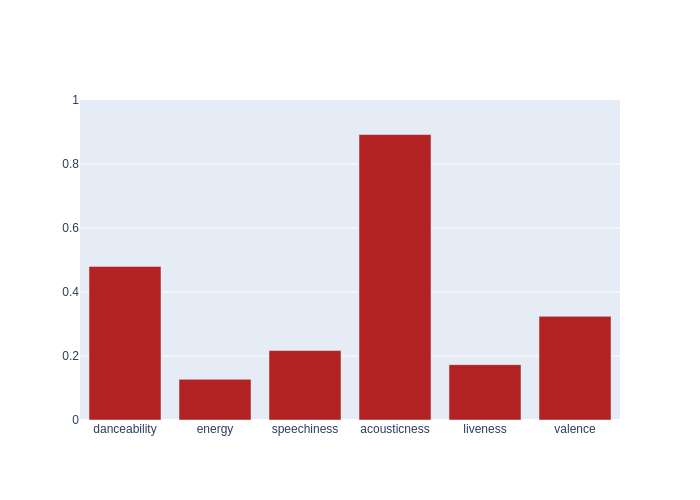
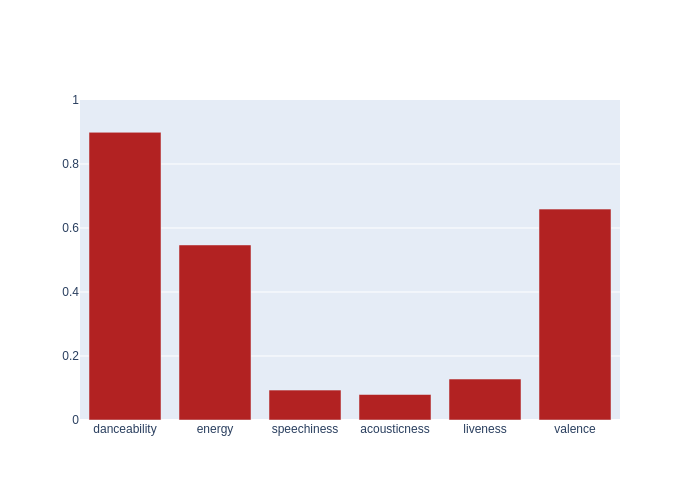
Automated README update

Changed region(s): [[0.12, 0.24, 0.75, 0.81], [0.75, 0.42, 0.87, 0.66]]

diff --git a/README.md b/README.md
@@ -4,7 +4,7 @@ Automated music metrics for fun, updated hourly.
 
 ## Spotify
 
-- currently listening to **Jon Bellion - Human - Acoustic**
+- currently listening to **Sickick - I'm Good**
 
 - **3099** liked songs
 - **32** playlists
